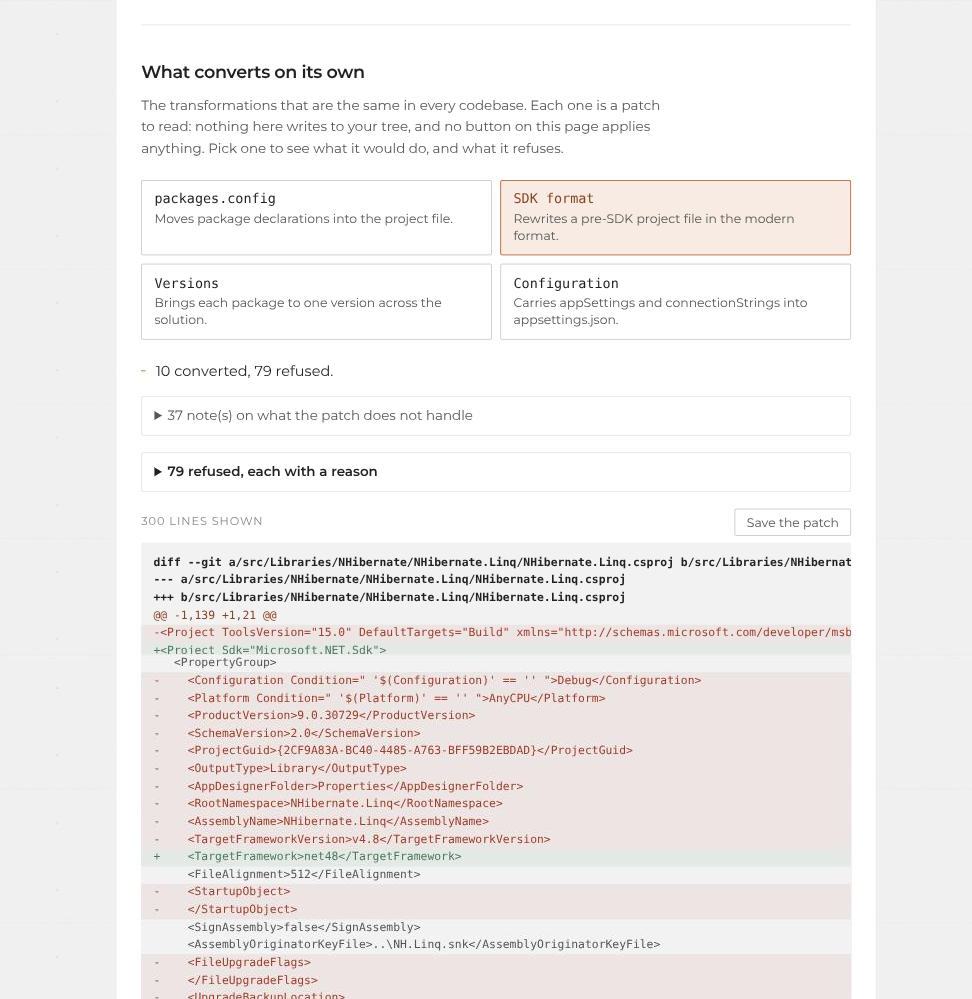
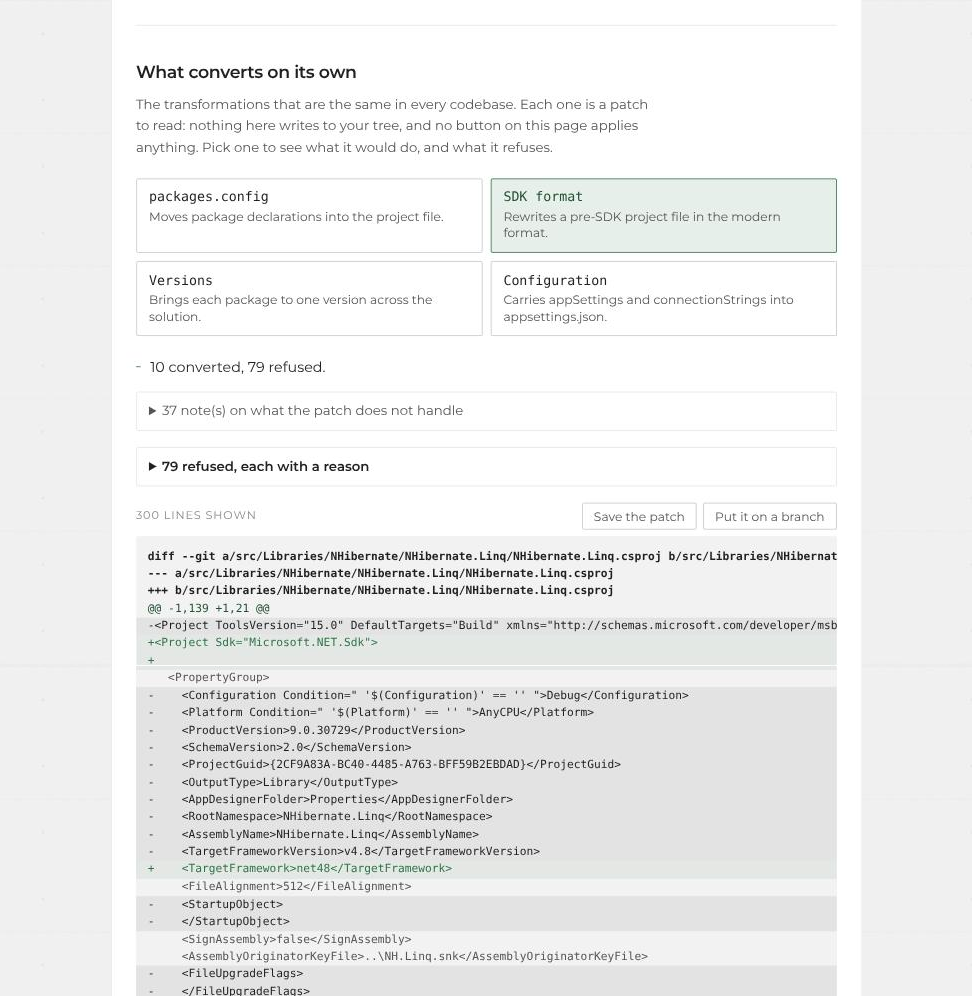
Refresh every screenshot, and add the one for what holds a codebase back
Five now. The four in the README were orange, from before the charter's green
went in, and the section built this week had none at all.

They are real runs: a 1.5B model answering about this repository's own source
over 369 indexed chunks, and the Orchard clone for the conversions and the
dependencies. Nothing is mocked, and the green is the charter's.

Stitching them found a mistake worth keeping written down. The scroll step and
the height of the captured image are not the same number, and they are not
related by one factor either: the image is scaled differently on each axis.
Deriving the step from the scroll silently dropped six lines out of the middle
of a code excerpt, in a picture whose whole point is that the tool quotes code
exactly. The overlap is measured against the pixels now, by stitch.py, and the
two joints of the main picture agree to within one pixel.

The captures also show two things that changed this week and had never been
seen: the button that puts a conversion on a branch, and the warning colour
that is no longer a colour. A file with no test is marked in full ink on the
wash, the way the charter says a warning is signalled.

diff --git a/README.md b/README.md
@@ -485,7 +485,7 @@ its first half already moved. `POST /api/convert` with `{"path":..., "kind":...}
 returns the same patch with its notes and refusals, and the web interface shows
 it as a diff with the refusals beside it.
 
-![The SDK conversion in the browser: ten projects converted, seventy-nine refused with reasons, and the patch shown as a diff nobody has applied](docs/conversions.png)
+![The SDK conversion in the browser: ten projects converted, seventy-nine refused with reasons, the patch as a diff, and the button that puts it on a branch of its own](docs/conversions.png)
 
 The page has one button that changes a repository, and it is deliberately
 narrow: it commits the patch to **a branch of its own** and checks your original
@@ -715,6 +715,8 @@ Every type gets one of three answers, and the third is the point:
 | a named replacement | it converts |
 | recorded as having none | a blocker, and worth knowing early |
 | **absent from the catalogue** | **unknown, which is not the same as fine** |
+
+![What holds a codebase back: what it uses of each package, what could replace it, what nothing replaces, and the file worth projecting first](docs/dependencies.png)
 
 `data/successors.json` holds it, as data rather than as code. It grows with
 every migration anybody performs and does not need a rebuild to do so, and
